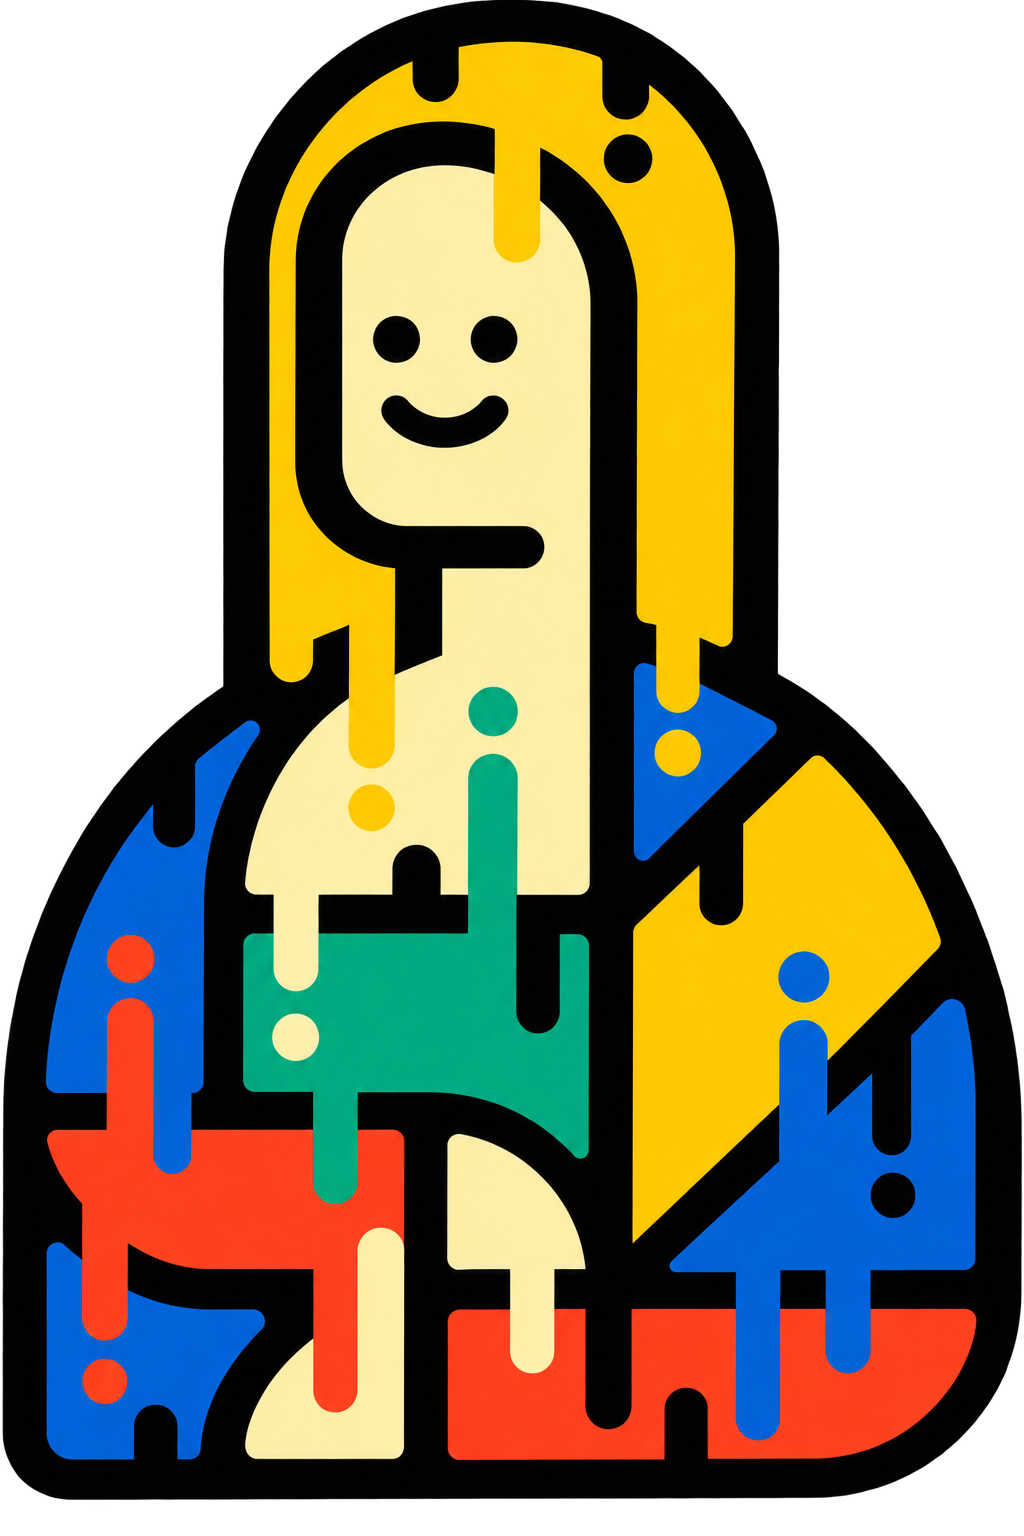
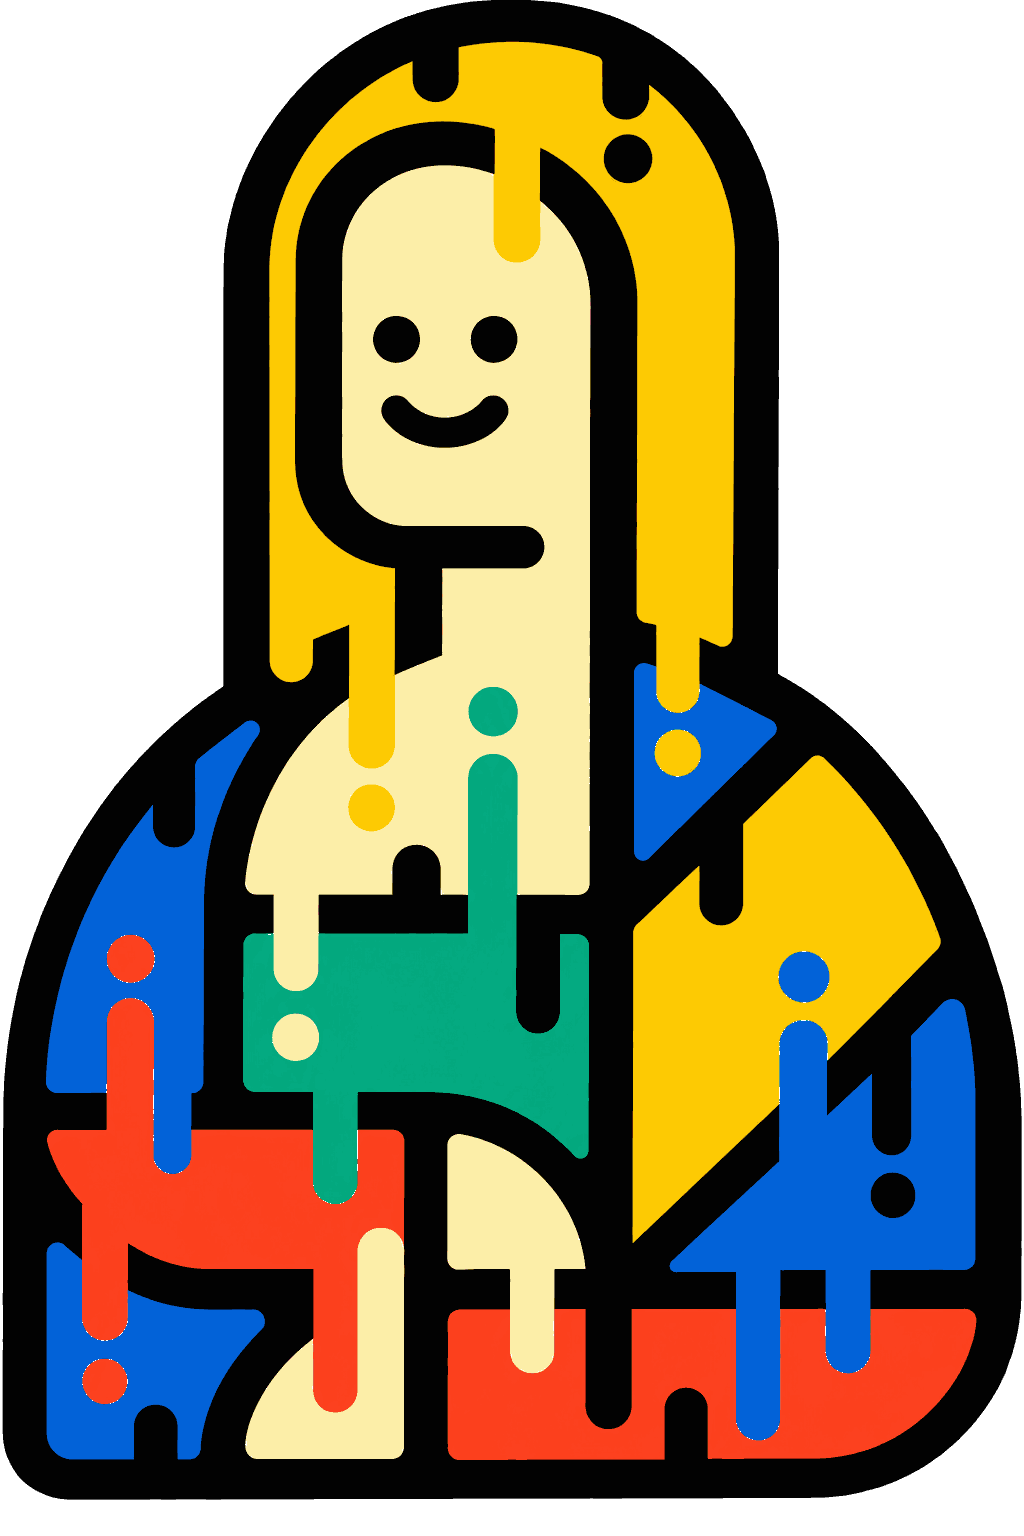
Fix scroll jank, missing Lora font load, and intro-animation crash risk
- Re-encode hero-illustration.png as indexed PNG (977KB -> 42KB), same
  pixels/transparency, to cut main-thread decode cost during scroll
- Strip EXIF (incl. GPS coords) and recompress portrait.jpg (246KB -> 172KB)
- Add explicit width/height + decoding/loading attrs to both <img> tags to
  stop layout shift while they load
- Throttle the sticky-nav scroll listener to one class toggle per rAF frame
  instead of per scroll event; promote nav to its own compositing layer so
  its backdrop-filter blur doesn't force repaints of content underneath
- Add Lora to the Google Fonts request — .h1/.h2 declared it but it was
  never loaded, so every headline on the site was silently falling back to
  system Georgia
- Harden the load-in intro animation: sessionStorage access now throws
  safely instead of leaving the full-screen overlay stuck (was blacking
  out the whole page in Safari Private Browsing / storage-restricted
  webviews)

diff --git a/index.html b/index.html
@@ -8,7 +8,7 @@
   <link rel="preconnect" href="https://fonts.googleapis.com">
   <link rel="preconnect" href="https://fonts.gstatic.com" crossorigin>
   <!-- Variable Fraunces with full weight range (needed for weight 370) -->
-  <link href="https://fonts.googleapis.com/css2?family=Fraunces:opsz,wght@9..144,100..900&family=IBM+Plex+Mono:wght@400;500&family=IBM+Plex+Sans:wght@400;500&display=swap" rel="stylesheet">
+  <link href="https://fonts.googleapis.com/css2?family=Fraunces:opsz,wght@9..144,100..900&family=Lora:wght@500&family=IBM+Plex+Mono:wght@400;500&family=IBM+Plex+Sans:wght@400;500&display=swap" rel="stylesheet">
   <style>
     /* =========================================================
        CUSTOM FONT — UTNickel (logo + h1s)
@@ -217,6 +217,10 @@
       border-bottom: 0.5px solid transparent;
       background: transparent;
       transition: background 200ms ease, border-color 200ms ease, padding 200ms ease;
+      /* own compositing layer: keeps the backdrop-filter blur below (which
+         has to resample content scrolling underneath every frame) from
+         forcing repaints of the rest of the fixed header on every tick */
+      transform: translateZ(0);
     }
     .nav.is-scrolled {
       background: rgba(236, 229, 216, 0.92);
@@ -702,7 +706,7 @@
             </p>
           </div>
           <div class="hero__media-wrap" aria-hidden="true">
-            <img src="hero-illustration.png" alt="" class="hero__media">
+            <img src="hero-illustration.png" alt="" class="hero__media" width="1024" height="1536" decoding="async" fetchpriority="high">
           </div>
         </div>
       </div>
@@ -885,7 +889,7 @@
       <div class="container">
         <div class="about__grid">
           <div class="about__portrait-wrap">
-            <img src="portrait.jpg" alt="Portrait of Suman" class="about__portrait" style="object-fit:cover;">
+            <img src="portrait.jpg" alt="Portrait of Suman" class="about__portrait" style="object-fit:cover;" width="720" height="900" loading="lazy" decoding="async">
           </div>
           <div>
             <span class="eyebrow dark">About the founder</span>
@@ -1038,16 +1042,29 @@
   </main>
 
   <script>
-    // Sticky nav scroll state
+    // Sticky nav scroll state (rAF-throttled so it does at most one
+    // class toggle per animation frame instead of once per scroll event)
     (function () {
       var nav = document.getElementById('nav');
       var threshold = 80;
+      var ticking = false;
+      var wasScrolled = false;
+      function apply() {
+        var isScrolled = window.scrollY > threshold;
+        if (isScrolled !== wasScrolled) {
+          nav.classList.toggle('is-scrolled', isScrolled);
+          wasScrolled = isScrolled;
+        }
+        ticking = false;
+      }
       function onScroll() {
-        if (window.scrollY > threshold) nav.classList.add('is-scrolled');
-        else nav.classList.remove('is-scrolled');
+        if (!ticking) {
+          requestAnimationFrame(apply);
+          ticking = true;
+        }
       }
       window.addEventListener('scroll', onScroll, { passive: true });
-      onScroll();
+      apply();
     })();
 
     // Mobile menu
@@ -1089,15 +1106,25 @@
     (function () {
       var SESSION_KEY = 'wmg-intro-seen';
 
+      // sessionStorage throws in some contexts (Safari Private Browsing,
+      // storage-partitioned webviews/iframes) — never let that leave the
+      // full-screen intro overlay stuck covering the page.
+      function seenBefore() {
+        try { return !!sessionStorage.getItem(SESSION_KEY); }
+        catch (e) { return false; }
+      }
+      function markSeen() {
+        try { sessionStorage.setItem(SESSION_KEY, '1'); } catch (e) {}
+      }
+
+      var intro = document.getElementById('wmgIntro');
+
       // gates: prefers-reduced-motion + once-per-session
-      if (window.matchMedia('(prefers-reduced-motion: reduce)').matches) return;
-      if (sessionStorage.getItem(SESSION_KEY)) {
-        var el = document.getElementById('wmgIntro');
-        if (el) el.remove();
+      if (window.matchMedia('(prefers-reduced-motion: reduce)').matches || seenBefore()) {
+        if (intro) intro.remove();
         return;
       }
 
-      var intro  = document.getElementById('wmgIntro');
       var word   = document.getElementById('wmgIntroWord');
       var target = document.querySelector('.nav__brand');
       if (!intro || !word || !target) return;
@@ -1146,16 +1173,26 @@
           setTimeout(function () {
             intro.classList.add('is-done');
             target.style.visibility = '';
-            sessionStorage.setItem(SESSION_KEY, '1');
+            markSeen();
           }, 4800);
         });
       }
 
+      // Safety net: if anything above throws mid-animation, don't leave the
+      // full-screen overlay stuck — bail out to a clean, scrollable page.
+      function safeRun() {
+        try { run(); }
+        catch (e) {
+          intro.remove();
+          target.style.visibility = '';
+        }
+      }
+
       // wait for Fraunces to load before measuring
       if (document.fonts && document.fonts.ready) {
-        document.fonts.ready.then(function () { requestAnimationFrame(run); });
+        document.fonts.ready.then(function () { requestAnimationFrame(safeRun); });
       } else {
-        window.addEventListener('load', function () { setTimeout(run, 150); });
+        window.addEventListener('load', function () { setTimeout(safeRun, 150); });
       }
     })();
   </script>
